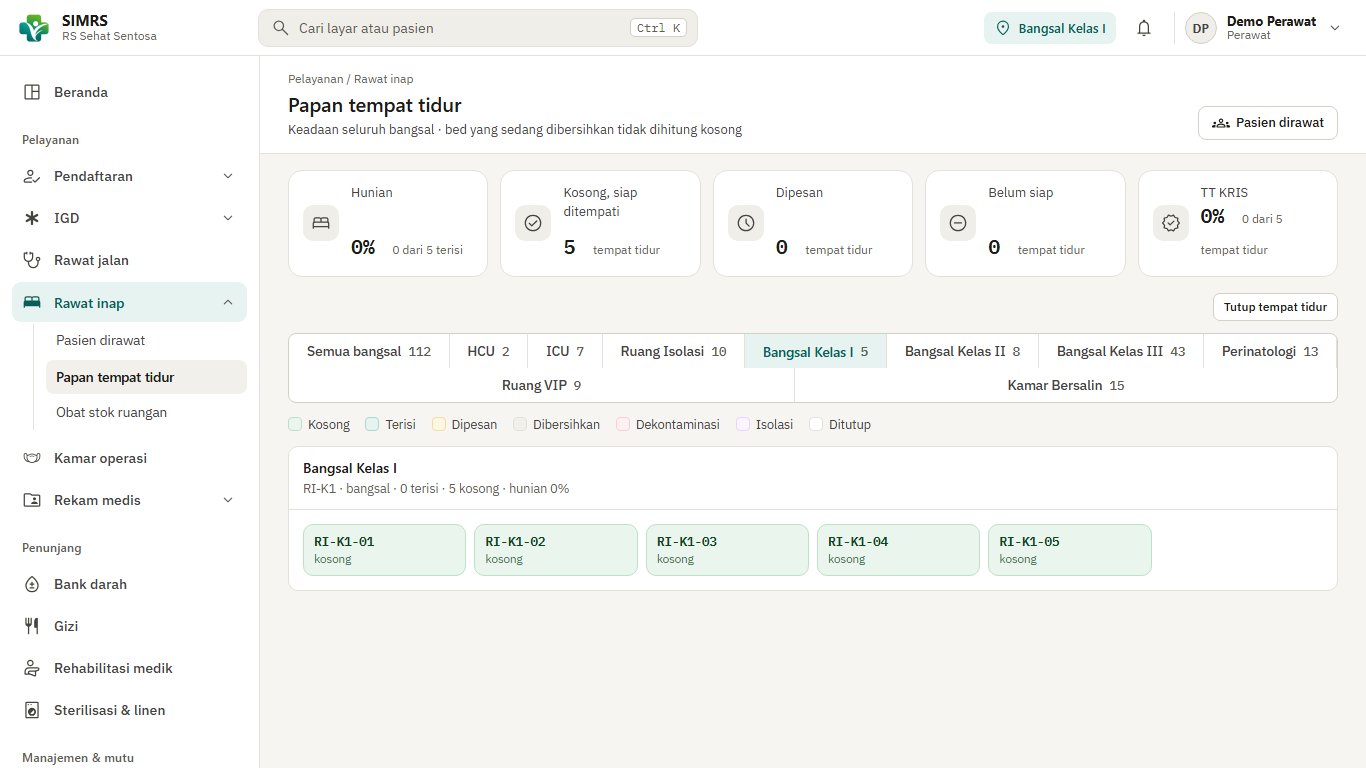
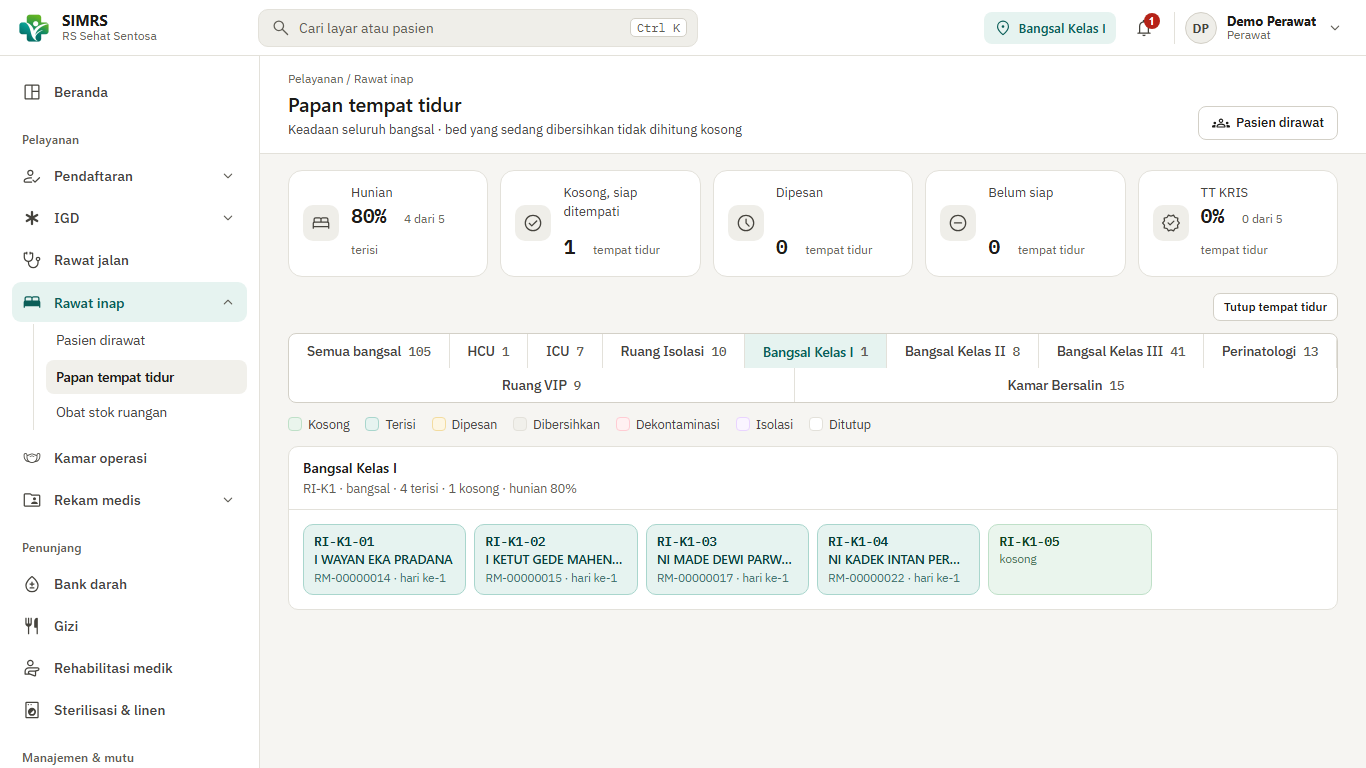
docs: README memamerkan layar IGD, operasi, bersalin, CSSD, gizi, binatu, pengadaan, pegawai, gaji, remunerasi, aset tetap, koding, mutu, dan SSRME, serta bukti dasbor sandbox
- Galeri "Modul pendukung": delapan belas layar dengan keterangan yang hanya menyebut yang tampak di layarnya. Seluruhnya data karangan.
- Remunerasi: kebijakan jasa pelayanan (bobot peran per layanan, porsi jasa BPJS per lini) dan jasa pelayanan dokter masuk daftar fitur.
- Tombol SATUSEHAT Rekam Medis (SSRME) di lembar kerja disebut pada baris SATUSEHAT di tabel integrasi.
- Bukti: dasbor Monitoring Integrasi SATUSEHAT di sandbox (27 Sep sampai 27 Okt 2026), seluruh 19 jenis resource terisi. Angkanya jumlah seluruh uji coba sebulan, bukan volume pasien.
- Papan tempat tidur diganti dengan keadaan yang terisi.

diff --git a/README.md b/README.md
@@ -78,6 +78,47 @@ dokternya tenaga kesehatan uji milik Kemenkes (namanya tersamar, begitulah sandb
 </tr>
 </table>
 
+### Modul pendukung
+
+<table>
+<tr>
+<td width="50%"><img src="gambar/igd-papan-triase.png" alt="Papan IGD"><br><sub><b>IGD.</b> Antrean menurut kegawatan, dengan peringatan bila lewat target tanggap.</sub></td>
+<td width="50%"><img src="gambar/kamar-operasi.png" alt="Kamar operasi"><br><sub><b>Kamar operasi.</b> Waktu operasi, persetujuan tindakan, dan set instrumen.</sub></td>
+</tr>
+<tr>
+<td><img src="gambar/kamar-bersalin.png" alt="Kamar bersalin"><br><sub><b>Kamar bersalin.</b> Catatan persalinan, komplikasi, persetujuan tindakan, dan tanda vital ibu.</sub></td>
+<td><img src="gambar/cssd-sterilisasi.png" alt="Sterilisasi pusat"><br><sub><b>Sterilisasi pusat (CSSD).</b> Mesin, siklus yang berjalan, dan indikator biologis.</sub></td>
+</tr>
+<tr>
+<td><img src="gambar/asuhan-gizi.png" alt="Asuhan gizi terstandar"><br><sub><b>Gizi.</b> Skrining, pengkajian, dan diagnosis gizi.</sub></td>
+<td><img src="gambar/binatu-linen.png" alt="Binatu dan linen"><br><sub><b>Binatu.</b> Serah-terima linen kotor dan neraca linen per ruangan.</sub></td>
+</tr>
+<tr>
+<td><img src="gambar/pengadaan-utang-usaha.png" alt="Utang usaha"><br><sub><b>Pengadaan.</b> Umur utang per pemasok, dicocokkan dengan buku besar.</sub></td>
+<td><img src="gambar/kepegawaian.png" alt="Kepegawaian"><br><sub><b>Pegawai.</b> Berkas pegawai menurut golongan, jabatan, dan hubungan kerja.</sub></td>
+</tr>
+<tr>
+<td><img src="gambar/daftar-gaji.png" alt="Daftar gaji"><br><sub><b>Gaji.</b> Penghasilan bruto, potongan, PPh 21, dan slip tiap pegawai.</sub></td>
+<td><img src="gambar/kebijakan-jasa-pelayanan.png" alt="Kebijakan jasa pelayanan"><br><sub><b>Remunerasi.</b> Bobot peran per layanan dan porsi jasa BPJS per lini. Angkanya contoh, dan layar sendiri mengingatkan bahwa ia wajib ditetapkan SK direksi.</sub></td>
+</tr>
+<tr>
+<td><img src="gambar/jasa-pelayanan-dokter.png" alt="Jasa pelayanan dokter"><br><sub><b>Jasa pelayanan dokter.</b> Dicatat saat tagihan terbit (BPJS: saat klaim dibayar), dibayarkan dari sini.</sub></td>
+<td><img src="gambar/aset-tetap.png" alt="Aset tetap dan penyusutan"><br><sub><b>Aset tetap.</b> Nilai buku per golongan, diadu dengan buku besar dan selisihnya diperingatkan.</sub></td>
+</tr>
+<tr>
+<td><img src="gambar/daftar-kerja-koding.png" alt="Daftar kerja koding"><br><sub><b>Koding.</b> Diagnosis utama dan kode tindakan yang masih menunggu.</sub></td>
+<td><img src="gambar/indikator-mutu.png" alt="Indikator mutu"><br><sub><b>Mutu.</b> Indikator nasional mutu, dengan pembilang dan penyebutnya.</sub></td>
+</tr>
+<tr>
+<td><img src="gambar/insiden-keselamatan-pasien.png" alt="Insiden keselamatan pasien"><br><sub><b>Keselamatan pasien.</b> Laporan awal insiden dan grading risikonya.</sub></td>
+<td><img src="gambar/laporan-sirs.png" alt="Laporan SIRS"><br><sub><b>Laporan SIRS.</b> Indikator pelayanan RL 1.2 dihitung dari data pelayanan.</sub></td>
+</tr>
+<tr>
+<td><img src="gambar/ssrme-rekam-medis-nasional.png" alt="Kartu SATUSEHAT Rekam Medis di lembar kerja dokter"><br><sub><b>SATUSEHAT Rekam Medis (SSRME).</b> Persetujuan pasien dan verifikasi profil dimintakan dari lembar kerja. Pembukaan tercatat di jejak audit.</sub></td>
+<td><img src="gambar/akses-lintas-dpjp.png" alt="Dialog akses berkas pasien yang bukan asuhan sendiri"><br><sub><b>Hak akses.</b> Membuka berkas yang bukan asuhan Anda boleh, dengan alasan yang tercatat.</sub></td>
+</tr>
+</table>
+
 ## Yang sudah didukung
 
 Lebih dari 200 layar, dikelompokkan dalam 25 modul di enam bagian menu. Menu hanya
@@ -88,7 +129,7 @@ menampilkan layar yang boleh dibuka peran Anda.
 | **Pelayanan** | **Pendaftaran** (pasien baru, penggabungan berkas ganda, kontrol ulang, rencana rawat inap, SEP BPJS). **Antrean** poliklinik dan papan ruang tunggu. **IGD** (triase, pasien tak dikenal, keputusan dokter). **Rawat inap** (CPPT, papan tempat tidur, obat stok ruangan). **Kamar operasi**, **kamar bersalin**, asuhan kehamilan dan nifas. **Register** TB, HIV, dan penyakit lain. **Rujukan** masuk dan keluar. **Rekam medis**: SOAP, diagnosis ICD-10, alergi, resume medis, adendum, lampiran pindaian, persetujuan tindakan, koding, sertifikat kematian |
 | **Penunjang** | **Laboratorium** (spesimen, nilai rujukan per kelompok umur, nilai kritis, antarmuka alat). **Radiologi** (worklist DICOM). **Bank darah**. **Gizi** (asuhan gizi terstandar). **Rehabilitasi medik**. **Sterilisasi pusat** dan **binatu** |
 | **Farmasi dan logistik** | **Apotek**: kaji resep, racikan, alat kesehatan, penjualan bebas, stok dilacak per batch dan diambil menurut tanggal kedaluwarsa terdekat. **Pengadaan**: permintaan, pesanan, persetujuan berjenjang, utang usaha, retur. **Persediaan**: penerimaan, distribusi ke depo, stok opname, penelusuran batch |
-| **Administrasi** | **Kasir**: tagihan, titipan pasien, titipan penunjang. **Klaim dan piutang**: klaim penjamin, INA-CBG, pelunasan, umur piutang. **Akuntansi**: buku besar menurut PSAK, jurnal otomatis dan manual, neraca saldo, neraca, laba rugi per lini, PPN keluaran, PPh 21, aset tetap dan penyusutan, kunci buku, jasa pelayanan dokter. **Kepegawaian**: berkas pegawai, skala gaji, daftar gaji, THR, PPh 21 beserta berkas untuk Coretax |
+| **Administrasi** | **Kasir**: tagihan, titipan pasien, titipan penunjang. **Klaim dan piutang**: klaim penjamin, INA-CBG, pelunasan, umur piutang. **Akuntansi**: buku besar menurut PSAK, jurnal otomatis dan manual, neraca saldo, neraca, laba rugi per lini, PPN keluaran, PPh 21, aset tetap dan penyusutan, kunci buku. **Remunerasi**: kebijakan jasa pelayanan (bobot tiap peran per layanan, porsi jasa BPJS per lini) dan jasa pelayanan dokter, yang dicatat saat tagihan terbit (BPJS: saat klaim dibayar). **Kepegawaian**: berkas pegawai, skala gaji, daftar gaji, THR, PPh 21 beserta berkas untuk Coretax |
 | **Manajemen dan mutu** | Dasbor direksi, indikator mutu, laporan SIRS (RL), insiden keselamatan pasien, pencegahan infeksi (PPI), kecelakaan kerja (K3RS) |
 | **Sistem** | Master data (tenaga kesehatan, jadwal praktik, layanan dan tarif, katalog obat dan barang, pemasok, penjamin, formulir asesmen, dan lainnya). Pengguna, peran dan izin, jejak audit, pemantauan integrasi, kesehatan cadangan, masa simpan arsip |
 
@@ -108,7 +149,7 @@ Kolom *Keadaan* menjawab satu pertanyaan: **seberapa jauh integrasinya sudah dib
 
 | Integrasi | Fungsinya | Keadaan (27 Okt 2026) |
 |---|---|---|
-| **SATUSEHAT** (HL7 FHIR R4) | Data master dan data klinis tiap kunjungan, resume medis, tagihan | **Terbukti di sandbox Kemenkes.** Produksi menunggu registrasi sistem rekam medis ke Kemenkes dan kredensial produksi |
+| **SATUSEHAT** (HL7 FHIR R4) | Data master dan data klinis tiap kunjungan, resume medis, tagihan. Di lembar kerja ada juga tombol **SATUSEHAT Rekam Medis (SSRME)**: minta persetujuan pasien, akses darurat IGD, dan pembukaan rekam medis nasional oleh dokter penanggung jawab | **Terbukti di sandbox Kemenkes.** Produksi menunggu registrasi sistem rekam medis ke Kemenkes dan kredensial produksi |
 | **SATUSEHAT Webhook** | Menerima jawaban penjamin (eligibilitas, persetujuan, hasil klaim) | Penerima dan pembuka pesan terenkripsi (HPKE) ada, diuji dengan vektor RFC 9180. **Kiriman sungguhan dari Kemenkes belum pernah terlihat** |
 | **DICOM Router Kemenkes** | Menerbitkan `ImagingStudy` dari citra modalitas | **Terbukti di staging** (26 Sep 2026). Router dipasang terpisah |
 | **BPJS VClaim** | Kepesertaan, rujukan, SEP, surat kontrol, rencana kontrol, PRB | Dibangun menurut dokumentasi resmi, alamatnya diadu ke gerbang BPJS, diuji dengan simulator. **Belum dengan kredensial rumah sakit sungguhan** |
@@ -163,8 +204,13 @@ Angka di bawah diukur pada **27 Oktober 2026** dan akan basi. Tanggalnya sengaja
 |---|---|---|
 | Langkah interoperabilitas SATUSEHAT yang jadi tugas sistem rumah sakit | **499 dari 526** terbukti diterima gerbang sandbox. 27 belum | Daftar langkah resmi Kemenkes per modul (34 modul), diadu mesin dengan bukti dari gerbang. 61 langkah lain dikerjakan pihak lain |
 | Jenis pesan yang pernah diterima gerbang | 119 | Berkas bukti ditulis mesin dari antrean sesudah rantai dijalankan |
-| Kotak transaksi di dasbor sandbox SATUSEHAT | **19 dari 19** terisi (9 Okt 2026) | Tangkapan dasbor sesudah seluruh skenario dijalankan dari pemasangan bersih |
+| Jenis resource di dasbor Monitoring Integrasi SATUSEHAT (sandbox) | **19 dari 19** terisi, rentang 27 Sep sampai 27 Okt 2026, diperbarui 27 Okt 2026 pukul 00.01 WIB | Tangkapan dasbor milik Kemenkes di sisi mereka, dibaca sesudah seluruh skenario dan tur dijalankan. Gambarnya di bawah |
 | Tur otomatis | **342 tes** di 27 berkas | Peramban sungguhan yang menekan tombol seperti petugas: tes yang hijau berarti tombolnya benar-benar bekerja |
+
+<img src="gambar/monitoring-satusehat-sandbox.png" alt="Dasbor Monitoring Integrasi SATUSEHAT di sandbox: seluruh 19 jenis resource terisi" width="860">
+
+<sub>Dasbor Monitoring Integrasi SATUSEHAT milik Kemenkes (lingkungan sandbox), tangkapan layar pengembang SIMRS.
+Angkanya menjumlah seluruh uji coba kami selama sebulan di sandbox, <b>bukan volume pasien</b>.</sub>
 
 Satu aturan kami: **tes hijau bukan bukti integrasi.** Yang dihitung adalah muatan yang
 benar-benar diterima gerbang, dibaca kembali dari salinannya di sana.
